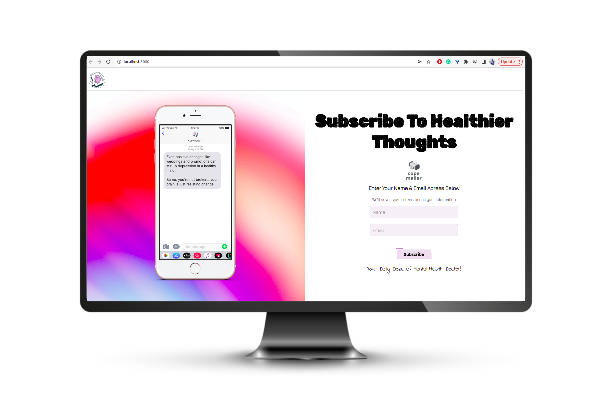
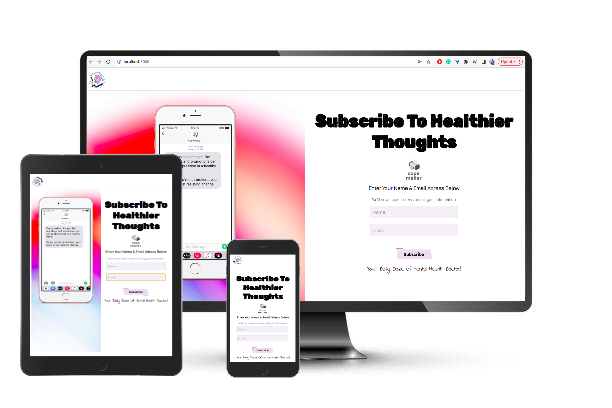
added a custom image

Changed region(s): [[0.031, 0.3529, 0.3105, 0.9412], [0.3415, 0.5882, 0.4967, 0.9412]]

diff --git a/README.md b/README.md
@@ -7,9 +7,7 @@
 ## DESIGN
 
 <p align="center">
-<img align="left" width="250" src="Spec.md/TabletImage.png" alt="Navigation Drawer" />
-<img align="centre" width="300" src="Spec.md/DesktopImage.png" alt="Home page" />
-<img align="right" width="250" src="Spec.md/MobileImage.png" alt="Home page 2" />
+<img align="center" width="600" src="Spec.md/DesktopImage.png" alt="Cryptobyte logo" />
 <p>
 
 ## DESCRIPTION
